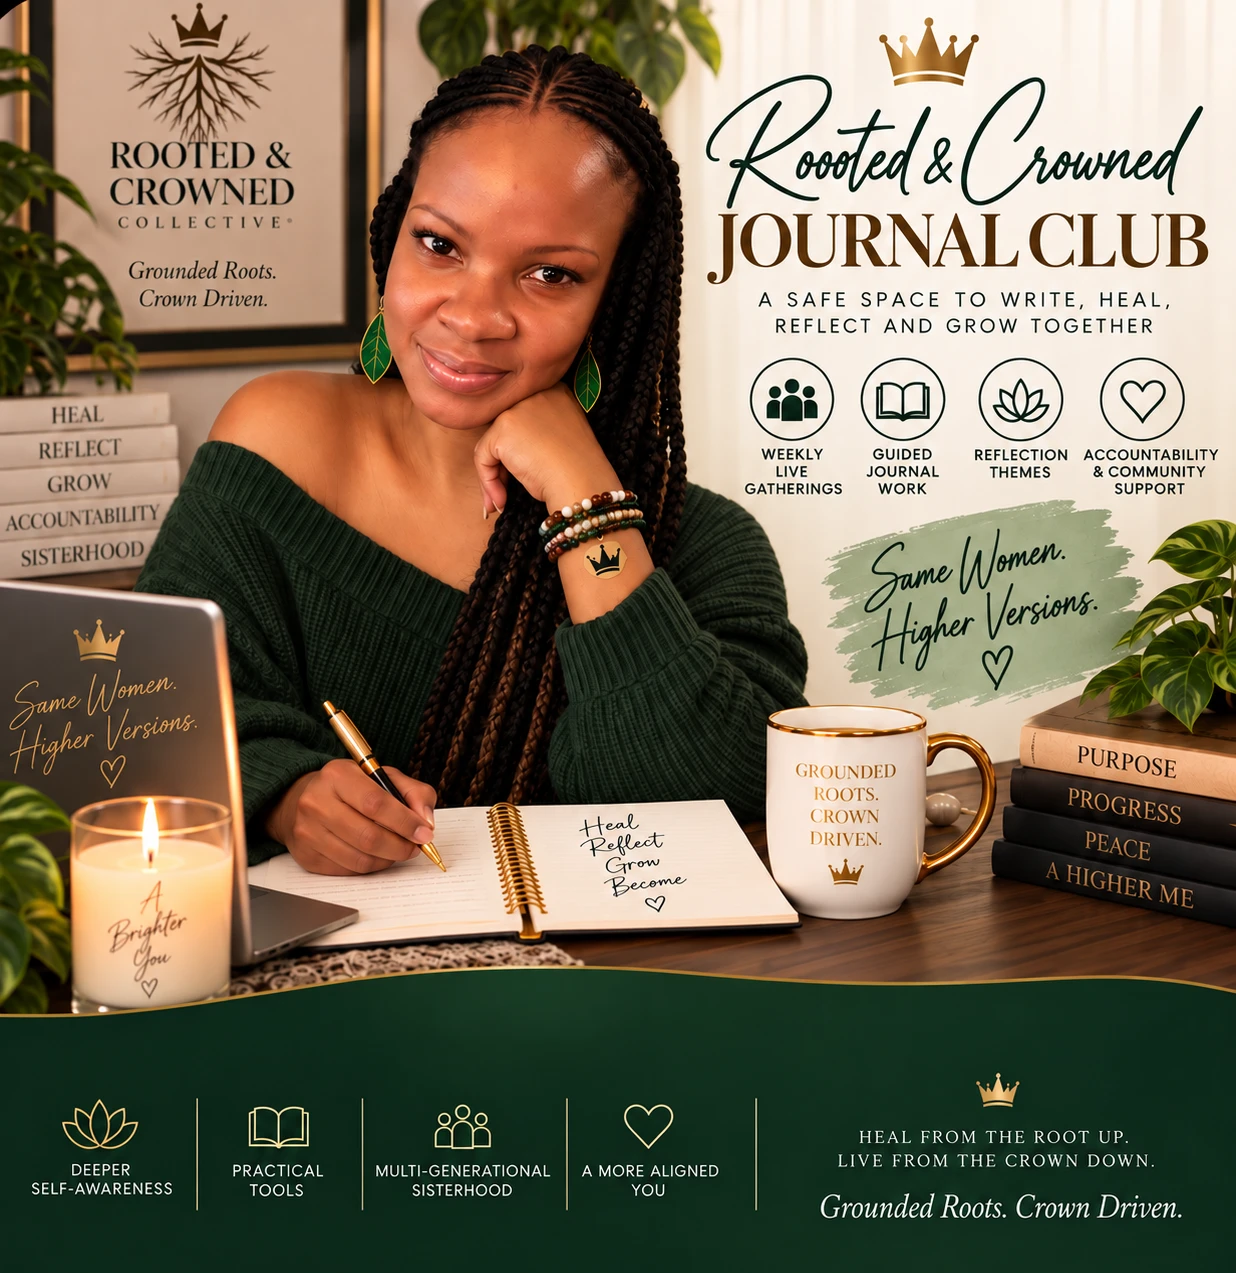
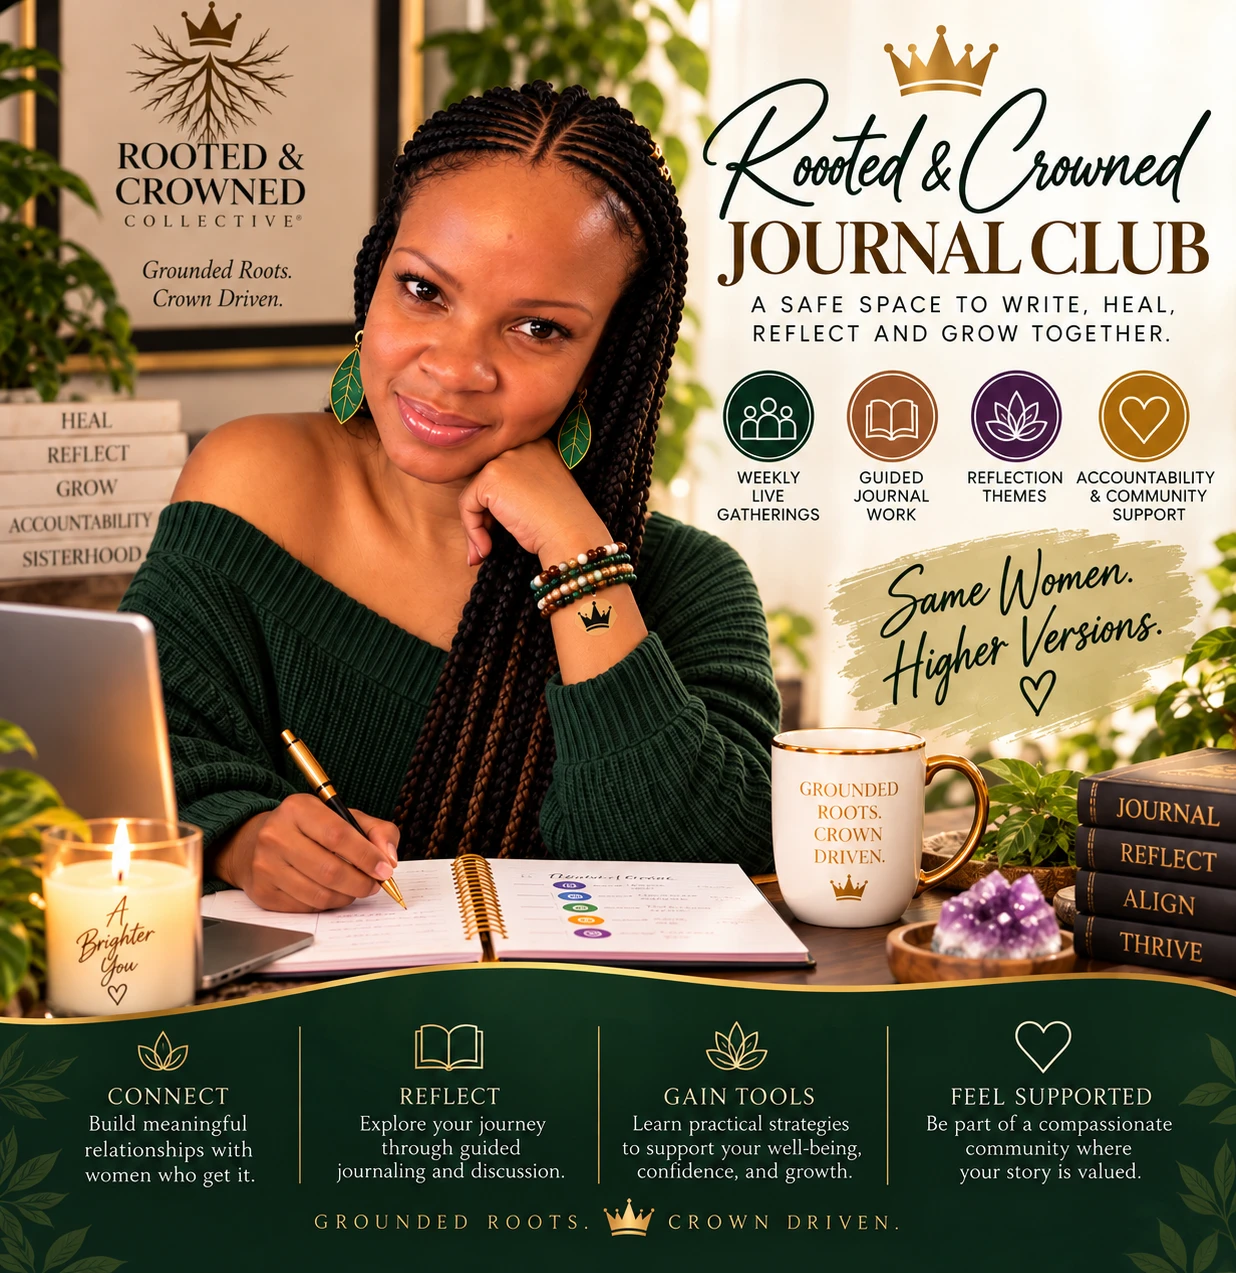
Replace the Journal Club photo on the Programs page with the new version

diff --git a/public/index.html b/public/index.html
@@ -1649,7 +1649,7 @@ details.course-mod summary::-webkit-details-marker{display:none}
         <span class="eyebrow">Monthly Membership</span>
         <h2 class="h-l">Rooted &amp; Crowned Journal Club</h2>
         <p class="script">Write It. Witness It. Voice It. Work Through It.</p>
-        <img class="media media--frame" src="assets/programs-journal-club.webp" alt="Rooted and Crowned Journal Club, a safe space to write, heal, reflect and grow together: Coach Kia in a forest-green sweater writing in a journal beside a candle and a mug reading Grounded Roots. Crown Driven., with weekly live gatherings, guided journal work, reflection themes and accountability and community support, and the words Same Women. Higher Versions." width="1236" height="1273" loading="lazy">
+        <img class="media media--frame" src="assets/programs-journal-club.webp" alt="Rooted and Crowned Journal Club, a safe space to write, heal, reflect and grow together: Coach Kia in a forest-green sweater writing in a journal beside a candle and a mug reading Grounded Roots. Crown Driven., with weekly live gatherings, guided journal work, reflection themes and accountability and community support, and the words Same Women. Higher Versions. Below, four benefits: connect, reflect, gain tools and feel supported." width="1236" height="1273" loading="lazy">
       </div>
       <div style="display:grid;gap:22px">
         <h3 class="h-m">Your journal holds the words. Your voice gives them life.</h3>
